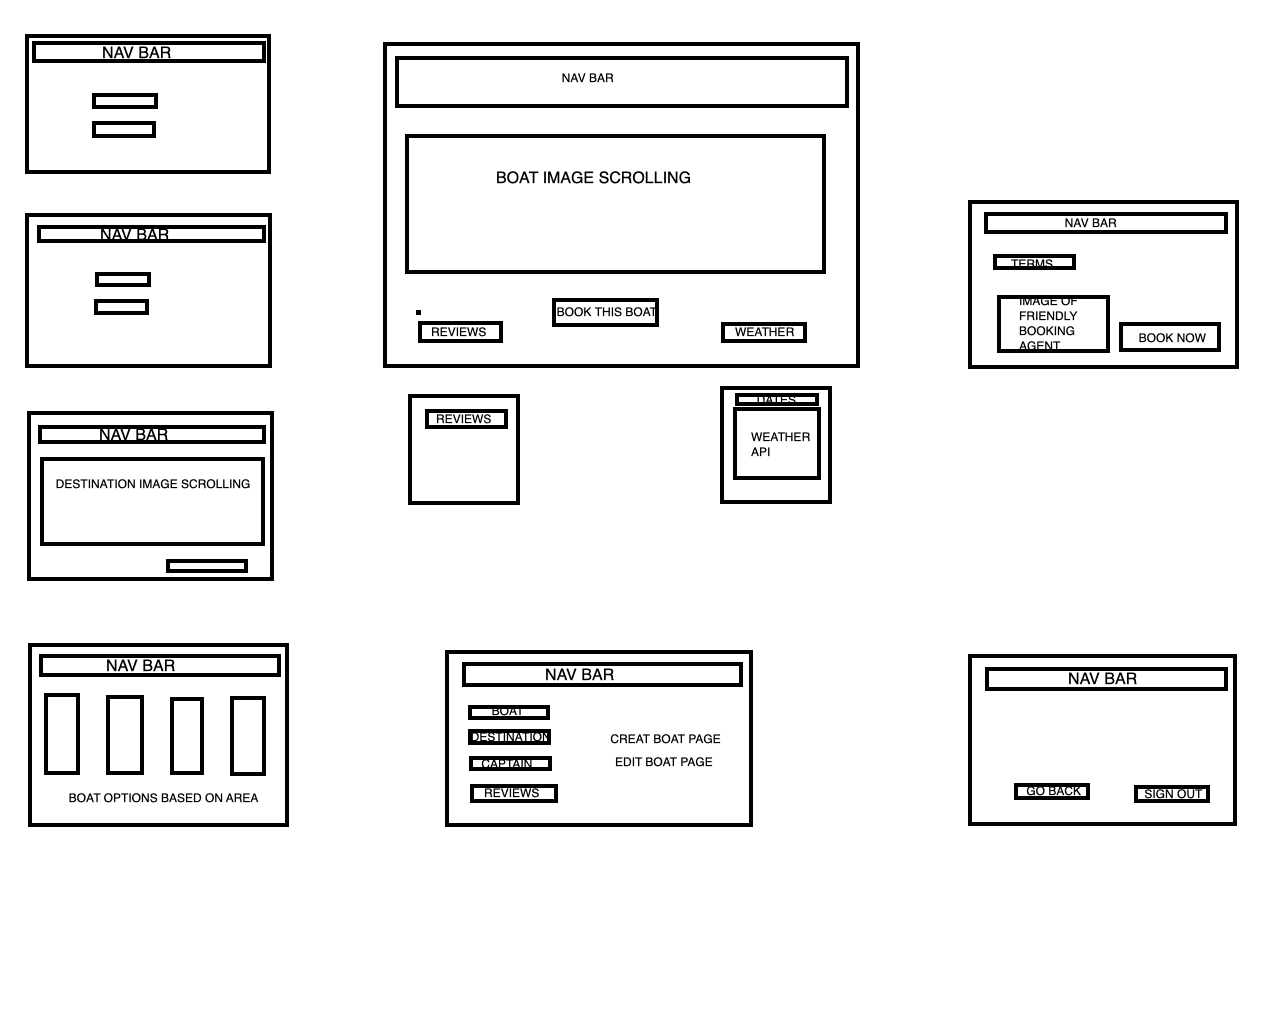
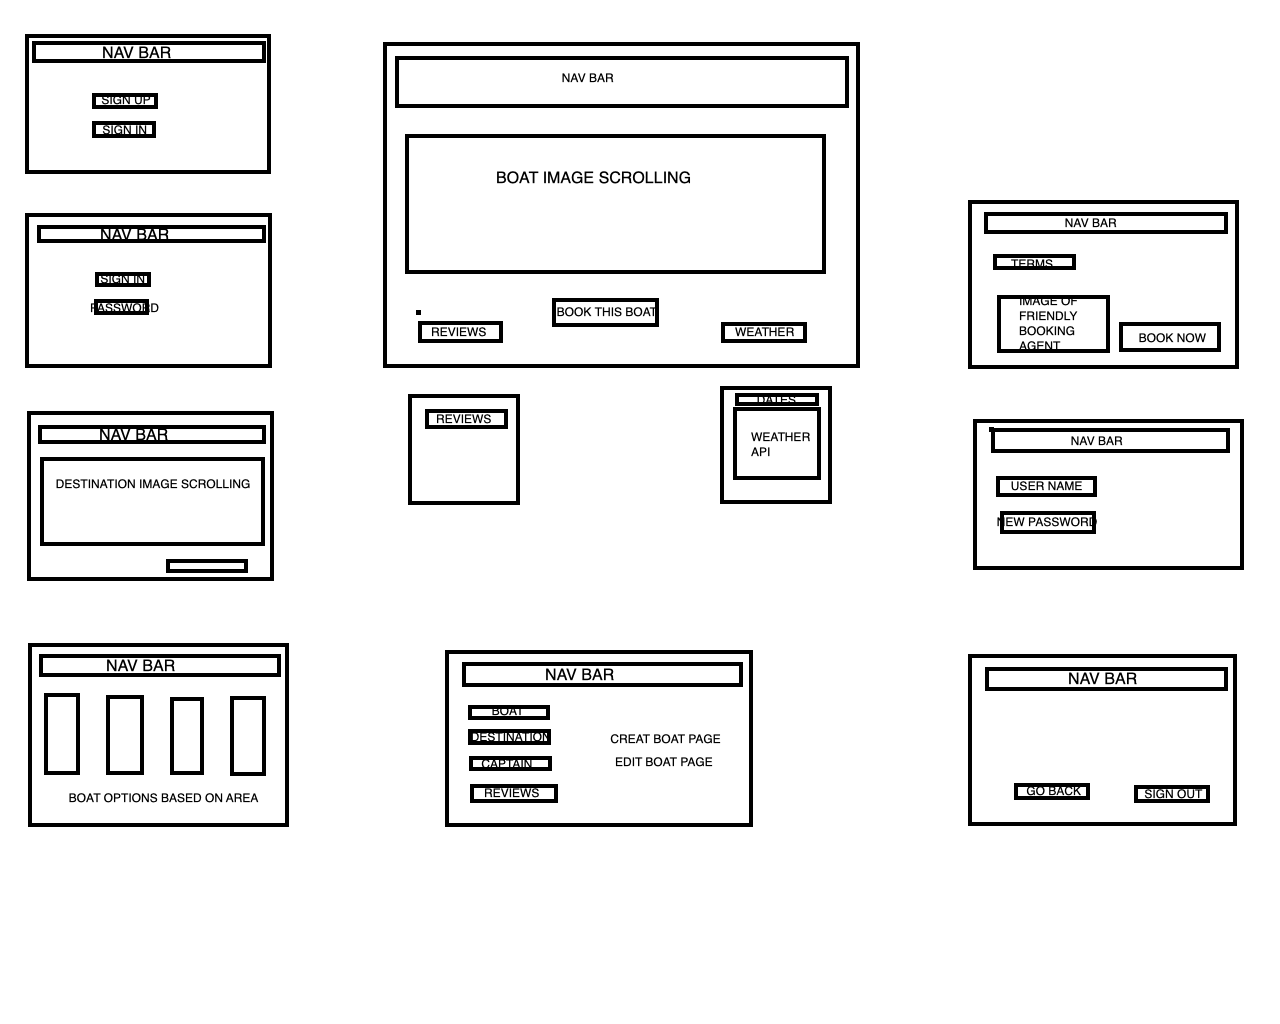
collaborated on WIREFRAMES

Changed region(s): [[0.75, 0.4062, 0.9688, 0.5625], [0.0625, 0.2812, 0.125, 0.3125], [0.0938, 0.0938, 0.125, 0.125]]

diff --git a/README.md b/README.md
@@ -47,6 +47,8 @@ As a user, I want the ability to:
 
 ## Wireframes
 
+![Alt text](images/YACHT%20WIREFRAMES.png)
+
 ## Entity Relationship Diagrams
 
 ## Unsolved Problems / Major Hurdles 
